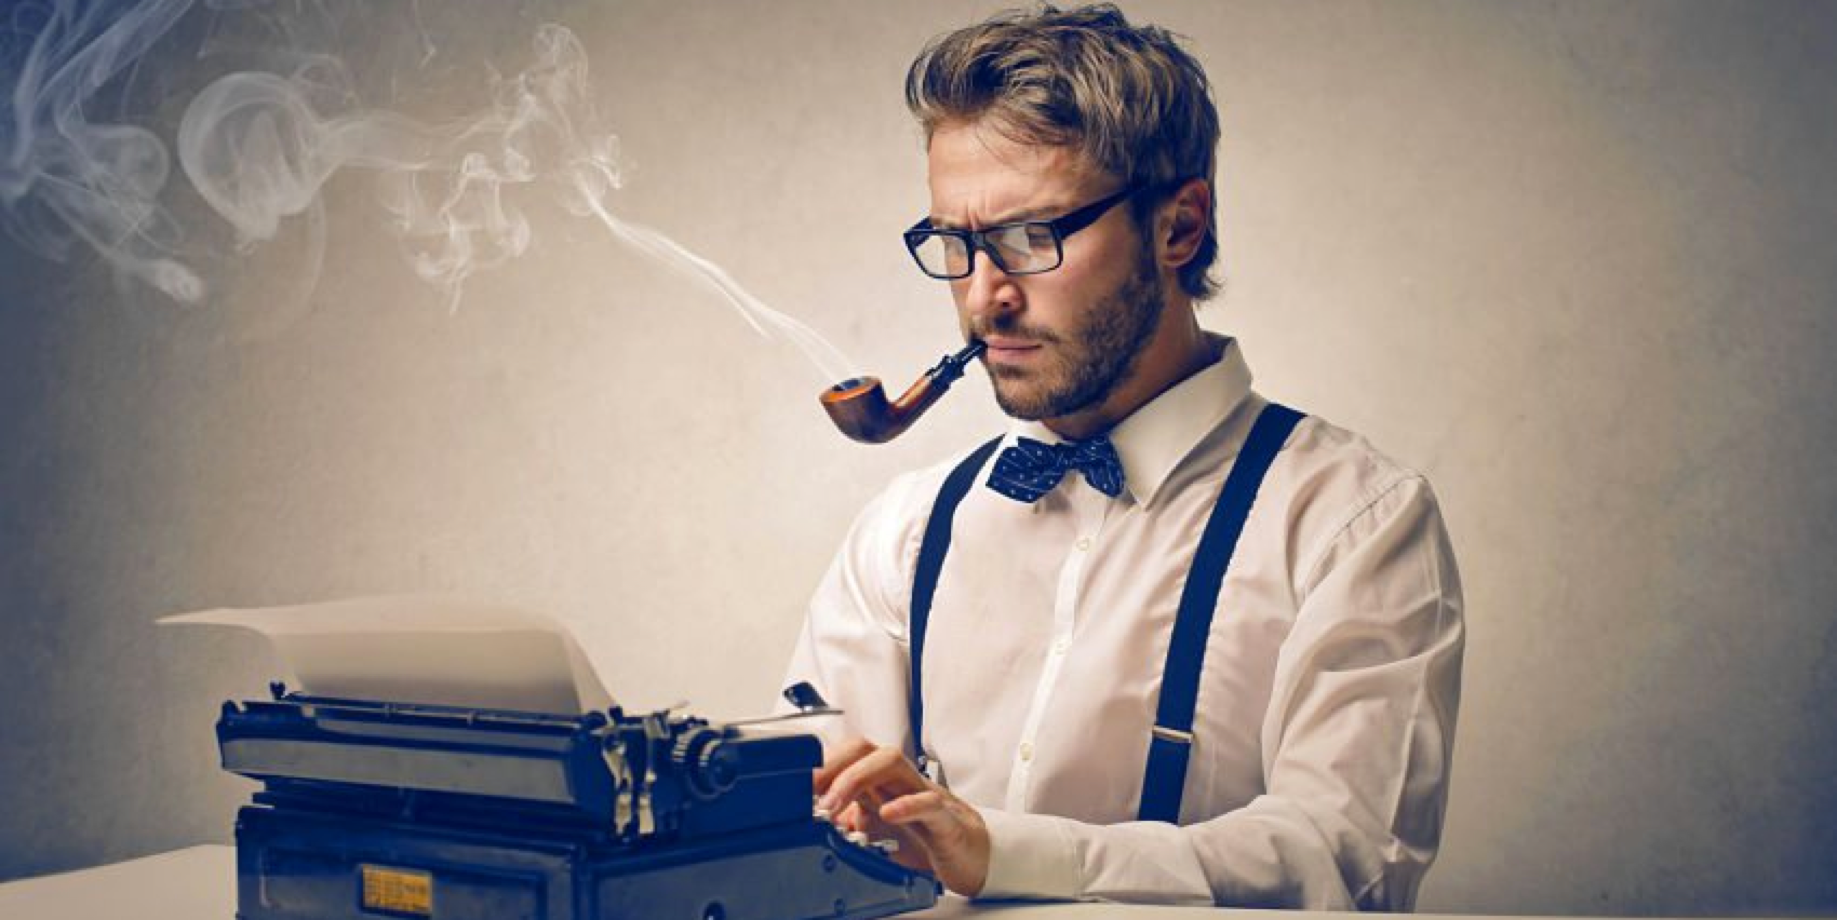
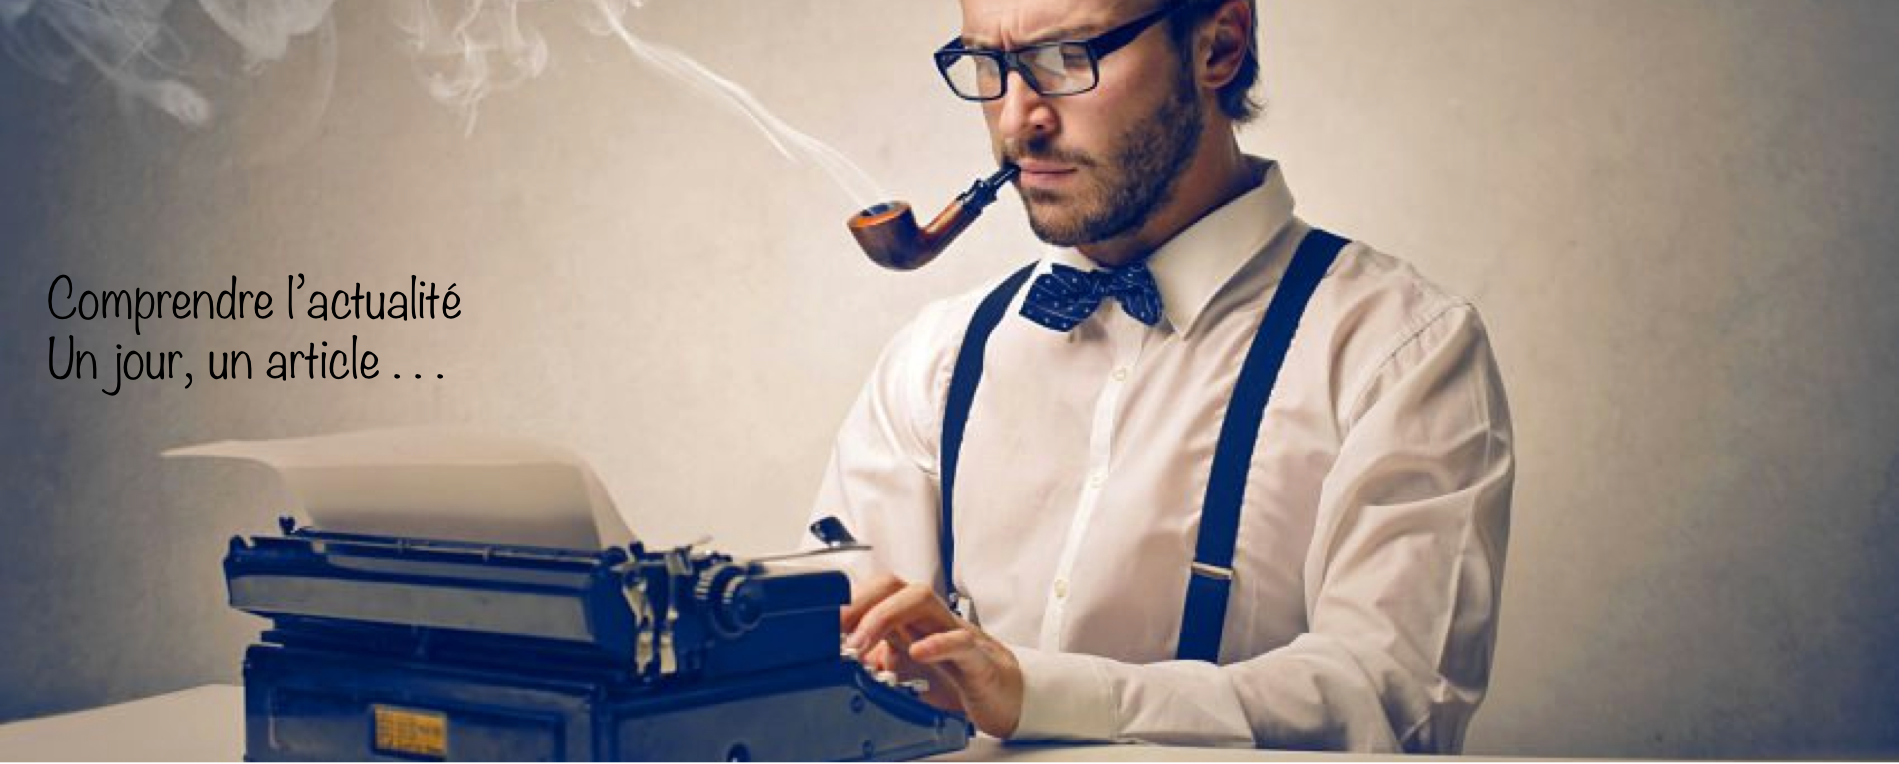
début page blog

diff --git a/static1/blog.html b/static1/blog.html
@@ -1,0 +1,71 @@
+<!DOCTYPE html>
+<html lang="en">
+  <head>
+    <meta charset="utf-8">
+    <meta http-equiv="X-UA-Compatible" content="IE=edge">
+    <meta name="viewport" content="width=device-width, initial-scale=1">
+    <!-- The above 3 meta tags *must* come first in the head; any other head content must come *after* these tags -->
+    <title>Bootstrap 101 Template</title>
+
+    <!-- Bootstrap -->
+    <link href="css/bootstrap.min.css" rel="stylesheet">
+    <link href="css/style.css" rel="stylesheet">
+
+    <!-- HTML5 shim and Respond.js for IE8 support of HTML5 elements and media queries -->
+    <!-- WARNING: Respond.js doesn't work if you view the page via file:// -->
+    <!--[if lt IE 9]>
+      <script src="https://oss.maxcdn.com/html5shiv/3.7.3/html5shiv.min.js"></script>
+      <script src="https://oss.maxcdn.com/respond/1.4.2/respond.min.js"></script>
+    <![endif]-->
+  </head>
+
+  <body>
+    <div class="container-fluid">
+    <header>
+      <div class="row">
+        <div>
+        <ul class="nav nav-pills">
+          <li role="presentation" class="active"><a href="#">Accueil</a></li>
+          <li role="presentation"><a href="#">Qui sommes-nous ?</a></li>
+          <li role="presentation"><a href="#">Nos Activités</a></li>
+          <li role="presentation"><a href="#">Nous contacter</a></li>
+          <li role="presentation"><a href="#">Blog</a></li>
+        </ul>
+      </div>
+      <div class="logo">
+        <img src="images-page-2/logotransparent.png" alt="logo" class="img-responsive" />
+      </div>
+    </div>
+      </header>
+
+<!-- Image d'accueil du blog -->
+
+      <div class="row">
+        <div class="col-xs-12">
+          <img id="image-principale" src="images-blog/image-principale-blog.png" class="img-responsive" alt="Responsive image" style="width:100%" />
+        </div>
+      </div>
+
+<!-- Articles sur la page blog -->
+
+<div class="row">
+  <div id="carre-jaune-blog" class="col-xs-12">
+    <div id="ligne" class="row">
+      <center>
+        <img src="images-blog/ligne-blog.png" alt="Responsive image" class="img-responsive" style='width:9%'/>
+      </center>
+    </div>
+    <h1>Our Blog</h1>
+    <div id="articles">
+    <div class="col-md-1" style="width:3%"></div>
+    <div class="col-md-4" style="width:42.5%">
+      <img src="images-blog/creation-start-up.png" class="img-responsive" alt="Responsive image" style="width:100%" />
+    </div>
+    <div class="col-md-2" style="width:9%"></div>
+    <div class="col-md-4" style="width:42.5%">
+      <img src="images-blog/chuck-berry.png" class="img-responsive" alt="Responsive image" style="width:100%" />
+    </div>
+    <div class="col-md-1" style="width:3%"></div>
+  </div>
+  </div>
+</div>

diff --git a/static1/css/style.css b/static1/css/style.css
@@ -1,4 +1,4 @@
-/* Pour toute la page */
+/* Pour toutes les pages */
 
 @font-face {
   font-family: "noteworthy";
@@ -45,8 +45,13 @@ p {
   margin-left: 5%;
 }
 
+#image-principale{
+  padding-top : 1em;
+  margin: auto;
+  width : 80%;
+}
 
-/* Page d'accueil : photo d'accueil */
+/* page d'accueil : photo d'accueil */
 
 
 .row div.col-xs-12 img.img-responsive {
@@ -67,7 +72,7 @@ p {
 
 
 #titre2 {
-  padding-bottom: 0.7em;
+  padding-bottom: 1.5em;
   padding-top: 1em;
 }
 
@@ -76,12 +81,6 @@ p {
 
 .presentation-poles div.col-md-3 {
   height : 28em;
-}
-
-.presentation-poles div.col-md-3 img.img-responsive{
-  padding-top : 2em;
-  margin: auto;
-  width : 80%;
 }
 
 
@@ -106,10 +105,22 @@ p.poles {
   position:absolute;
   float: left top;
   z-index: 2;
-  height:35%;
-  width:35%;
+  height:30%;
 }
 
+/* Blog */
+
+#carre-jaune-blog {
+  background-color: rgb(246, 246,230);
+  height: 25em;
+  text-align: center;
+  margin-top: 1em;
+  position:relative;
+}
+
+#articles {
+  padding-top: 1em;
+}
 
 /* footer */
 footer{

diff --git a/static1/accueil.html b/static1/accueil.html
@@ -42,9 +42,11 @@
 <!-- Image d'accueil -->
     <div class="row">
       <div class="col-xs-12">
-        <img src="images-page-accueil/image-accueil.png" class="img-responsive" alt="Responsive image" style="width:100%" />
+        <img id="image-principale" src="images-page-accueil/image-accueil.png" class="img-responsive" alt="Responsive image" style="width:100%" />
       </div>
     </div>
+
+<!-- Ligne -->
 
 <div id="ligne" class="row">
   <center>
